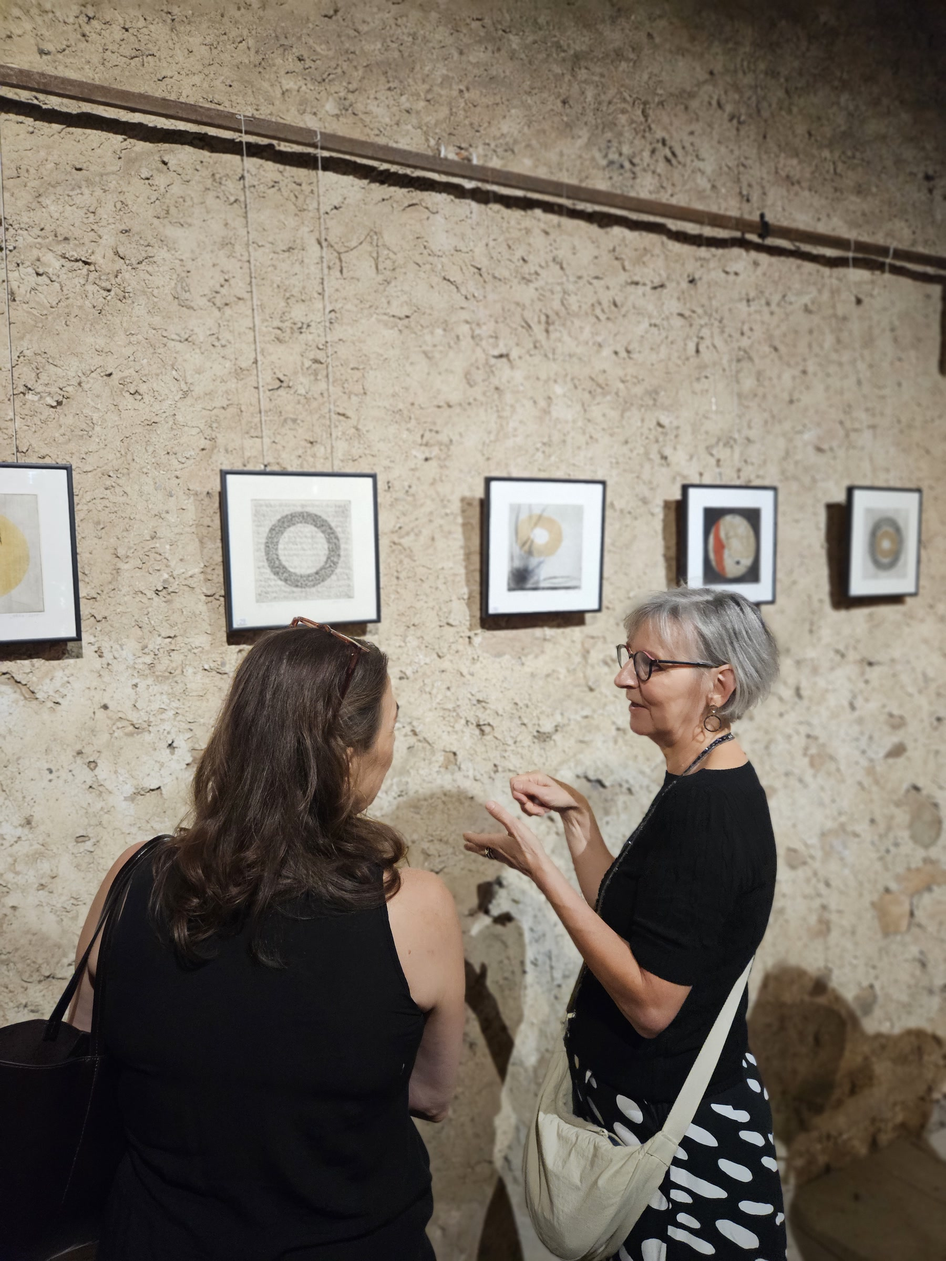
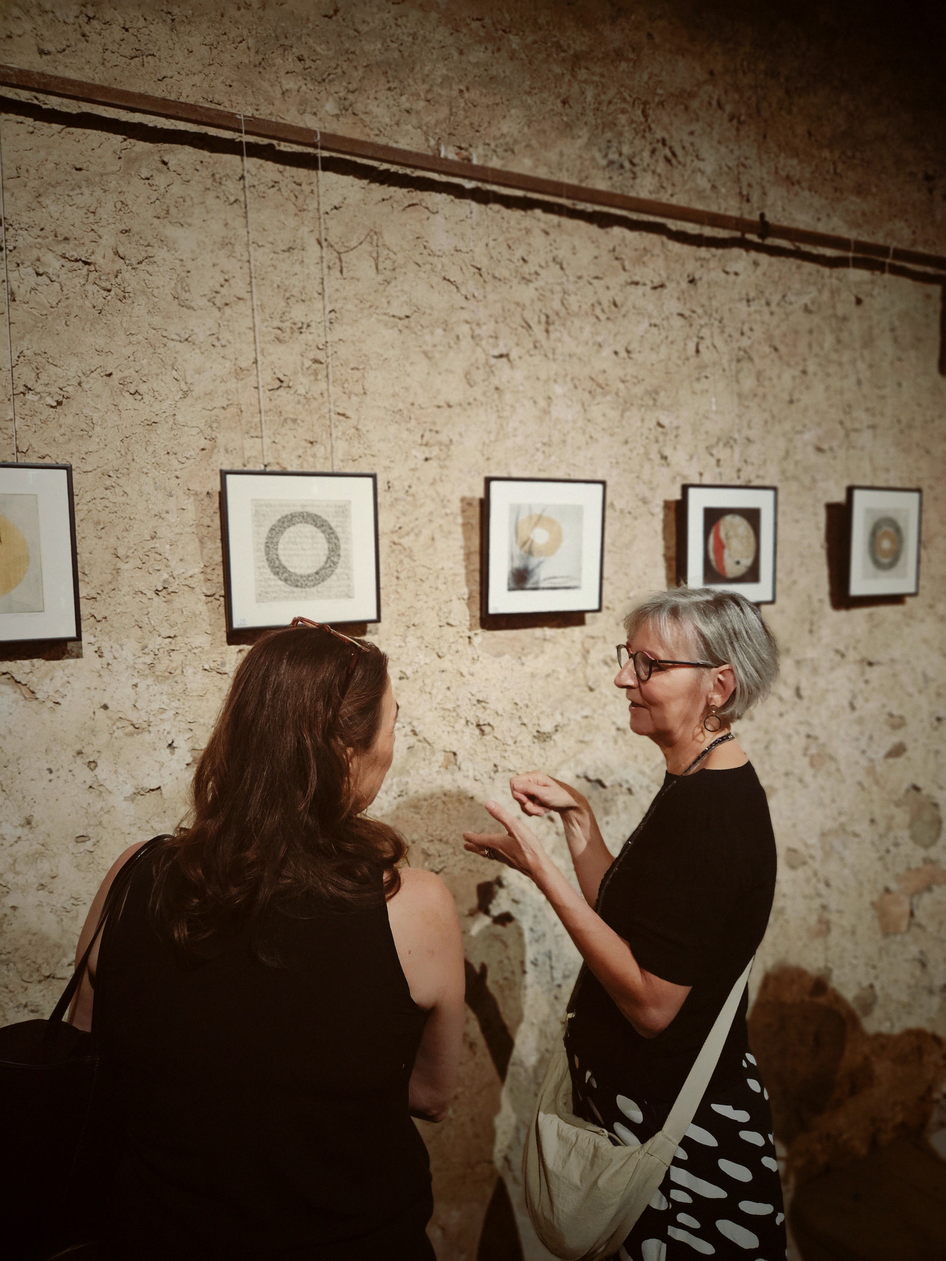
Kuration: die zwei Handybilder im Ton der übrigen Ansichten
Christian, 13. November 2026: «Die letzten beiden bitte filtern,
anpassen an die quali der anderen».

Claude-Session: https://claude.ai/code/session_01EXrTH5RNCHRuQfvA6MEPef

diff --git a/b/angebot/kuration/index.html b/b/angebot/kuration/index.html
@@ -56,7 +56,7 @@
   <h2 id="ablauf-titel">So geht es</h2>
   <ol><li><span>Ein Rundgang durch den Raum, mit dem Thema im Kopf.</span></li><li><span>Konzept, Auswahl und Ablauf als Papier, Budget und Termine dazu.</span></li><li><span>Aufbau, Eröffnung, Begleitprogramm, Abbau.</span></li></ol>
 </div></section>
-<section class="referenzen schau-abschnitt" aria-labelledby="schau-titel"><div class="spalte"><h2 id="schau-titel">Zum Anschauen</h2><div class="schau" style="margin-bottom:32px"><a class="schau-stueck" href="https://www.oberer-turm.ch/" target="_blank" rel="noopener"><span class="bild"><img src="/b/bilder/schau/supervisionen.jpg?v=24b53fc557" alt="Die Website der Ausstellung «Supervisionen» auf dem Handy: gelbes Kopfband, der Titel «Der Obere Turm als Ausstellungsraum» und ein Foto des Turms über den Dächern von Kaiserstuhl" width="1280" height="800" loading="lazy"></span><h3>Supervisionen<small>Website der Ausstellung, 2026</small></h3><p>Die Website zur Ausstellung: Programm, Vernissagen und der Turm als Ausstellungsraum. Auch sie stammt von Christian Strickler.</p><span class="weiter">oberer-turm.ch ↗</span></a></div><p class="klein" style="margin:0 0 18px">Ansichten aus «Supervisionen», Oberer Turm Kaiserstuhl, 2026. Die Werke stammen von den ausstellenden Künstler:innen.</p><div class="fotos"><figure class="foto" id="foto-turm-ansicht"><a href="/b/bilder/fotografie/turm-ansicht-1600.jpg?v=f2ae37b07f" target="_blank" rel="noopener" title="Der Turm gross ansehen"><img src="/b/bilder/fotografie/turm-ansicht-800.jpg?v=dfc1a06c9f" srcset="/b/bilder/fotografie/turm-ansicht-800.jpg?v=dfc1a06c9f 800w, /b/bilder/fotografie/turm-ansicht-1600.jpg?v=f2ae37b07f 1600w" sizes="(max-width: 760px) 100vw, 360px" alt="Durch Blätter gesehen: der Obere Turm von Kaiserstuhl aus Stein mit roter Uhr über den Dächern der Altstadt, dahinter Wald und Felder" width="640" height="800" loading="lazy"></a></figure><figure class="foto" id="foto-turm-leer"><a href="/b/bilder/fotografie/turm-leer-1600.jpg?v=c46e96f137" target="_blank" rel="noopener" title="Der Raum gross ansehen"><img src="/b/bilder/fotografie/turm-leer-800.jpg?v=61c14c8e16" srcset="/b/bilder/fotografie/turm-leer-800.jpg?v=61c14c8e16 800w, /b/bilder/fotografie/turm-leer-1600.jpg?v=c46e96f137 1600w" sizes="(max-width: 760px) 100vw, 360px" alt="Schwarzweiss: ein hoher Turmraum mit rohen Wänden und Balkendecke, in der Mitte ein Holzpfosten, rechts ein einzelner Stuhl, an der Wand lehnt ein Gemälde neben einem kleinen Fenster" width="640" height="800" loading="lazy"></a></figure><figure class="foto" id="foto-turm-mobile"><a href="/b/bilder/fotografie/turm-mobile-1600.jpg?v=81fe30a4ba" target="_blank" rel="noopener" title="Am Bild gross ansehen"><img src="/b/bilder/fotografie/turm-mobile-800.jpg?v=718c42f93c" srcset="/b/bilder/fotografie/turm-mobile-800.jpg?v=718c42f93c 800w, /b/bilder/fotografie/turm-mobile-1600.jpg?v=81fe30a4ba 1600w" sizes="(max-width: 760px) 100vw, 360px" alt="Durch hängende dunkle Formen eines Mobiles gesehen: zwei Menschen von hinten vor einem hellen Gemälde, einer zeigt auf eine Stelle; daneben ein Bild in Türkis und Grau" width="800" height="533" loading="lazy"></a></figure><figure class="foto" id="foto-turm-ecke"><a href="/b/bilder/fotografie/turm-ecke-1600.jpg?v=f0c8b6f588" target="_blank" rel="noopener" title="In der Ecke gross ansehen"><img src="/b/bilder/fotografie/turm-ecke-800.jpg?v=1d4db407ae" srcset="/b/bilder/fotografie/turm-ecke-800.jpg?v=1d4db407ae 800w, /b/bilder/fotografie/turm-ecke-1600.jpg?v=f0c8b6f588 1600w" sizes="(max-width: 760px) 100vw, 360px" alt="Eine Ecke des Turmraums: links ein grosses Bild mit gelbem und blauem Licht, rechts eine weisse Linienzeichnung auf schwarzem Grund" width="640" height="800" loading="lazy"></a></figure><figure class="foto" id="foto-turm-blaetter"><a href="/b/bilder/fotografie/turm-blaetter-1600.jpg?v=fdf43b088a" target="_blank" rel="noopener" title="Vor den Blättern gross ansehen"><img src="/b/bilder/fotografie/turm-blaetter-800.jpg?v=ce6f472d72" srcset="/b/bilder/fotografie/turm-blaetter-800.jpg?v=ce6f472d72 800w, /b/bilder/fotografie/turm-blaetter-1600.jpg?v=fdf43b088a 1600w" sizes="(max-width: 760px) 100vw, 360px" alt="Drei Menschen von hinten vor gerahmten Blättern mit dunklen runden Formen, eine Frau zeigt auf ein Blatt; im Vordergrund die Scheiben eines Mobiles" width="800" height="533" loading="lazy"></a></figure><figure class="foto" id="foto-turm-farben"><a href="/b/bilder/fotografie/turm-farben-1600.jpg?v=e47a8b1b45" target="_blank" rel="noopener" title="Farbflächen gross ansehen"><img src="/b/bilder/fotografie/turm-farben-800.jpg?v=c3805d035c" srcset="/b/bilder/fotografie/turm-farben-800.jpg?v=c3805d035c 800w, /b/bilder/fotografie/turm-farben-1600.jpg?v=e47a8b1b45 1600w" sizes="(max-width: 760px) 100vw, 360px" alt="Ein Gemälde aus geschwungenen Farbflächen in Blau, Rot, Gelb und Orange an der rohen Wand, davor ein Tisch mit drei Blättern in Passepartouts" width="640" height="800" loading="lazy"></a></figure><figure class="foto" id="foto-turm-am-bild"><a href="/b/bilder/fotografie/turm-am-bild-1600.jpg?v=f627bb52af" target="_blank" rel="noopener" title="Im Gespräch gross ansehen"><img src="/b/bilder/fotografie/turm-am-bild-800.jpg?v=ca9fb57a62" srcset="/b/bilder/fotografie/turm-am-bild-800.jpg?v=ca9fb57a62 800w, /b/bilder/fotografie/turm-am-bild-1600.jpg?v=f627bb52af 1600w" sizes="(max-width: 760px) 100vw, 360px" alt="Zwei Frauen stehen nah vor einem Gemälde in hellen Blau- und Sandtönen, eine streckt die Hand zur Leinwand aus" width="800" height="533" loading="lazy"></a></figure><figure class="foto" id="foto-turm-stillleben"><a href="/b/bilder/fotografie/turm-stillleben-1600.jpg?v=a9cd11e326" target="_blank" rel="noopener" title="Vor den Stillleben gross ansehen"><img src="/b/bilder/fotografie/turm-stillleben-800.jpg?v=ee868e18b7" srcset="/b/bilder/fotografie/turm-stillleben-800.jpg?v=ee868e18b7 800w, /b/bilder/fotografie/turm-stillleben-1600.jpg?v=a9cd11e326 1600w" sizes="(max-width: 760px) 100vw, 360px" alt="Eine Frau im gemusterten Kleid steht mit dem Rücken zur Kamera vor vier gerahmten Blättern mit Stillleben aus Krügen, Flaschen und Schalen" width="600" height="800" loading="lazy"></a></figure><figure class="foto" id="foto-turm-kreise"><a href="/b/bilder/fotografie/turm-kreise-1600.jpg?v=b50a983417" target="_blank" rel="noopener" title="Vor den Kreisen gross ansehen"><img src="/b/bilder/fotografie/turm-kreise-800.jpg?v=d2d74a0a4c" srcset="/b/bilder/fotografie/turm-kreise-800.jpg?v=d2d74a0a4c 800w, /b/bilder/fotografie/turm-kreise-1600.jpg?v=b50a983417 1600w" sizes="(max-width: 760px) 100vw, 360px" alt="Zwei Frauen im Gespräch vor einer Reihe kleiner gerahmter Blätter mit Kreisen und Scheiben, eine erklärt mit den Händen" width="600" height="800" loading="lazy"></a></figure></div></div></section>
+<section class="referenzen schau-abschnitt" aria-labelledby="schau-titel"><div class="spalte"><h2 id="schau-titel">Zum Anschauen</h2><div class="schau" style="margin-bottom:32px"><a class="schau-stueck" href="https://www.oberer-turm.ch/" target="_blank" rel="noopener"><span class="bild"><img src="/b/bilder/schau/supervisionen.jpg?v=24b53fc557" alt="Die Website der Ausstellung «Supervisionen» auf dem Handy: gelbes Kopfband, der Titel «Der Obere Turm als Ausstellungsraum» und ein Foto des Turms über den Dächern von Kaiserstuhl" width="1280" height="800" loading="lazy"></span><h3>Supervisionen<small>Website der Ausstellung, 2026</small></h3><p>Die Website zur Ausstellung: Programm, Vernissagen und der Turm als Ausstellungsraum. Auch sie stammt von Christian Strickler.</p><span class="weiter">oberer-turm.ch ↗</span></a></div><p class="klein" style="margin:0 0 18px">Ansichten aus «Supervisionen», Oberer Turm Kaiserstuhl, 2026. Die Werke stammen von den ausstellenden Künstler:innen.</p><div class="fotos"><figure class="foto" id="foto-turm-ansicht"><a href="/b/bilder/fotografie/turm-ansicht-1600.jpg?v=f2ae37b07f" target="_blank" rel="noopener" title="Der Turm gross ansehen"><img src="/b/bilder/fotografie/turm-ansicht-800.jpg?v=dfc1a06c9f" srcset="/b/bilder/fotografie/turm-ansicht-800.jpg?v=dfc1a06c9f 800w, /b/bilder/fotografie/turm-ansicht-1600.jpg?v=f2ae37b07f 1600w" sizes="(max-width: 760px) 100vw, 360px" alt="Durch Blätter gesehen: der Obere Turm von Kaiserstuhl aus Stein mit roter Uhr über den Dächern der Altstadt, dahinter Wald und Felder" width="640" height="800" loading="lazy"></a></figure><figure class="foto" id="foto-turm-leer"><a href="/b/bilder/fotografie/turm-leer-1600.jpg?v=c46e96f137" target="_blank" rel="noopener" title="Der Raum gross ansehen"><img src="/b/bilder/fotografie/turm-leer-800.jpg?v=61c14c8e16" srcset="/b/bilder/fotografie/turm-leer-800.jpg?v=61c14c8e16 800w, /b/bilder/fotografie/turm-leer-1600.jpg?v=c46e96f137 1600w" sizes="(max-width: 760px) 100vw, 360px" alt="Schwarzweiss: ein hoher Turmraum mit rohen Wänden und Balkendecke, in der Mitte ein Holzpfosten, rechts ein einzelner Stuhl, an der Wand lehnt ein Gemälde neben einem kleinen Fenster" width="640" height="800" loading="lazy"></a></figure><figure class="foto" id="foto-turm-mobile"><a href="/b/bilder/fotografie/turm-mobile-1600.jpg?v=81fe30a4ba" target="_blank" rel="noopener" title="Am Bild gross ansehen"><img src="/b/bilder/fotografie/turm-mobile-800.jpg?v=718c42f93c" srcset="/b/bilder/fotografie/turm-mobile-800.jpg?v=718c42f93c 800w, /b/bilder/fotografie/turm-mobile-1600.jpg?v=81fe30a4ba 1600w" sizes="(max-width: 760px) 100vw, 360px" alt="Durch hängende dunkle Formen eines Mobiles gesehen: zwei Menschen von hinten vor einem hellen Gemälde, einer zeigt auf eine Stelle; daneben ein Bild in Türkis und Grau" width="800" height="533" loading="lazy"></a></figure><figure class="foto" id="foto-turm-ecke"><a href="/b/bilder/fotografie/turm-ecke-1600.jpg?v=f0c8b6f588" target="_blank" rel="noopener" title="In der Ecke gross ansehen"><img src="/b/bilder/fotografie/turm-ecke-800.jpg?v=1d4db407ae" srcset="/b/bilder/fotografie/turm-ecke-800.jpg?v=1d4db407ae 800w, /b/bilder/fotografie/turm-ecke-1600.jpg?v=f0c8b6f588 1600w" sizes="(max-width: 760px) 100vw, 360px" alt="Eine Ecke des Turmraums: links ein grosses Bild mit gelbem und blauem Licht, rechts eine weisse Linienzeichnung auf schwarzem Grund" width="640" height="800" loading="lazy"></a></figure><figure class="foto" id="foto-turm-blaetter"><a href="/b/bilder/fotografie/turm-blaetter-1600.jpg?v=fdf43b088a" target="_blank" rel="noopener" title="Vor den Blättern gross ansehen"><img src="/b/bilder/fotografie/turm-blaetter-800.jpg?v=ce6f472d72" srcset="/b/bilder/fotografie/turm-blaetter-800.jpg?v=ce6f472d72 800w, /b/bilder/fotografie/turm-blaetter-1600.jpg?v=fdf43b088a 1600w" sizes="(max-width: 760px) 100vw, 360px" alt="Drei Menschen von hinten vor gerahmten Blättern mit dunklen runden Formen, eine Frau zeigt auf ein Blatt; im Vordergrund die Scheiben eines Mobiles" width="800" height="533" loading="lazy"></a></figure><figure class="foto" id="foto-turm-farben"><a href="/b/bilder/fotografie/turm-farben-1600.jpg?v=e47a8b1b45" target="_blank" rel="noopener" title="Farbflächen gross ansehen"><img src="/b/bilder/fotografie/turm-farben-800.jpg?v=c3805d035c" srcset="/b/bilder/fotografie/turm-farben-800.jpg?v=c3805d035c 800w, /b/bilder/fotografie/turm-farben-1600.jpg?v=e47a8b1b45 1600w" sizes="(max-width: 760px) 100vw, 360px" alt="Ein Gemälde aus geschwungenen Farbflächen in Blau, Rot, Gelb und Orange an der rohen Wand, davor ein Tisch mit drei Blättern in Passepartouts" width="640" height="800" loading="lazy"></a></figure><figure class="foto" id="foto-turm-am-bild"><a href="/b/bilder/fotografie/turm-am-bild-1600.jpg?v=f627bb52af" target="_blank" rel="noopener" title="Im Gespräch gross ansehen"><img src="/b/bilder/fotografie/turm-am-bild-800.jpg?v=ca9fb57a62" srcset="/b/bilder/fotografie/turm-am-bild-800.jpg?v=ca9fb57a62 800w, /b/bilder/fotografie/turm-am-bild-1600.jpg?v=f627bb52af 1600w" sizes="(max-width: 760px) 100vw, 360px" alt="Zwei Frauen stehen nah vor einem Gemälde in hellen Blau- und Sandtönen, eine streckt die Hand zur Leinwand aus" width="800" height="533" loading="lazy"></a></figure><figure class="foto" id="foto-turm-stillleben"><a href="/b/bilder/fotografie/turm-stillleben-1600.jpg?v=8e333441c0" target="_blank" rel="noopener" title="Vor den Stillleben gross ansehen"><img src="/b/bilder/fotografie/turm-stillleben-800.jpg?v=97c9c25995" srcset="/b/bilder/fotografie/turm-stillleben-800.jpg?v=97c9c25995 800w, /b/bilder/fotografie/turm-stillleben-1600.jpg?v=8e333441c0 1600w" sizes="(max-width: 760px) 100vw, 360px" alt="Eine Frau im gemusterten Kleid steht mit dem Rücken zur Kamera vor vier gerahmten Blättern mit Stillleben aus Krügen, Flaschen und Schalen" width="600" height="800" loading="lazy"></a></figure><figure class="foto" id="foto-turm-kreise"><a href="/b/bilder/fotografie/turm-kreise-1600.jpg?v=52816ae89e" target="_blank" rel="noopener" title="Vor den Kreisen gross ansehen"><img src="/b/bilder/fotografie/turm-kreise-800.jpg?v=0bf5ea6895" srcset="/b/bilder/fotografie/turm-kreise-800.jpg?v=0bf5ea6895 800w, /b/bilder/fotografie/turm-kreise-1600.jpg?v=52816ae89e 1600w" sizes="(max-width: 760px) 100vw, 360px" alt="Zwei Frauen im Gespräch vor einer Reihe kleiner gerahmter Blätter mit Kreisen und Scheiben, eine erklärt mit den Händen" width="600" height="800" loading="lazy"></a></figure></div></div></section>
 
 <section class="referenzen" aria-labelledby="ref-titel"><div class="spalte"><h2 id="ref-titel">Referenzen</h2><ol class="jahre"><li><span class="jahr">2026</span><span>«Supervisionen», Oberer Turm, Kaiserstuhl: sechs Monate, neun Künstler:innen; für Pro Kaiserstuhl, Gemeinde Zurzach. Ausstellung und Website. <a class="ref-link" href="https://www.oberer-turm.ch/" target="_blank" rel="noopener">oberer-turm.ch ↗</a></span></li><li><span class="jahr">2024</span><span>Ausstellung mit Werken von Klient:innen, Behmen, Aarau: ein Jahr; für das BKS Aargau und die Stiftung FARO</span></li></ol></div></section>
 <section class="briefing" id="briefing" aria-labelledby="briefing-titel"><div class="spalte">

diff --git a/b/en/angebot/kuration/index.html b/b/en/angebot/kuration/index.html
@@ -56,7 +56,7 @@
   <h2 id="ablauf-titel">How it works</h2>
   <ol><li><span>A walk through the space, with the theme in mind.</span></li><li><span>Concept, selection and programme on paper, budget and dates included.</span></li><li><span>Installation, opening, accompanying programme, dismantling.</span></li></ol>
 </div></section>
-<section class="referenzen schau-abschnitt" aria-labelledby="schau-titel"><div class="spalte"><h2 id="schau-titel">Have a look</h2><div class="schau" style="margin-bottom:32px"><a class="schau-stueck" href="https://www.oberer-turm.ch/" target="_blank" rel="noopener"><span class="bild"><img src="/b/bilder/schau/supervisionen.jpg?v=24b53fc557" alt="The website of the exhibition «Supervisionen» on a phone: yellow header, the title «Der Obere Turm als Ausstellungsraum» and a photo of the tower above the roofs of Kaiserstuhl" width="1280" height="800" loading="lazy"></span><h3>Supervisionen<small>Exhibition website, 2026</small></h3><p>The website for the exhibition: programme, openings and the tower as an exhibition space. It too was made by Christian Strickler.</p><span class="weiter">oberer-turm.ch ↗</span></a></div><p class="klein" style="margin:0 0 18px">Views of «Supervisionen», Oberer Turm Kaiserstuhl, 2026. The works are by the exhibiting artists.</p><div class="fotos"><figure class="foto" id="foto-turm-ansicht"><a href="/b/bilder/fotografie/turm-ansicht-1600.jpg?v=f2ae37b07f" target="_blank" rel="noopener" title="View The tower large"><img src="/b/bilder/fotografie/turm-ansicht-800.jpg?v=dfc1a06c9f" srcset="/b/bilder/fotografie/turm-ansicht-800.jpg?v=dfc1a06c9f 800w, /b/bilder/fotografie/turm-ansicht-1600.jpg?v=f2ae37b07f 1600w" sizes="(max-width: 760px) 100vw, 360px" alt="Seen through leaves: the stone Oberer Turm of Kaiserstuhl with its red clock above the roofs of the old town, forest and fields behind" width="640" height="800" loading="lazy"></a></figure><figure class="foto" id="foto-turm-leer"><a href="/b/bilder/fotografie/turm-leer-1600.jpg?v=c46e96f137" target="_blank" rel="noopener" title="View The room large"><img src="/b/bilder/fotografie/turm-leer-800.jpg?v=61c14c8e16" srcset="/b/bilder/fotografie/turm-leer-800.jpg?v=61c14c8e16 800w, /b/bilder/fotografie/turm-leer-1600.jpg?v=c46e96f137 1600w" sizes="(max-width: 760px) 100vw, 360px" alt="Black and white: a tall tower room with rough walls and a beamed ceiling, a wooden post in the centre, a single chair on the right, a painting leaning against the wall beside a small window" width="640" height="800" loading="lazy"></a></figure><figure class="foto" id="foto-turm-mobile"><a href="/b/bilder/fotografie/turm-mobile-1600.jpg?v=81fe30a4ba" target="_blank" rel="noopener" title="View At the picture large"><img src="/b/bilder/fotografie/turm-mobile-800.jpg?v=718c42f93c" srcset="/b/bilder/fotografie/turm-mobile-800.jpg?v=718c42f93c 800w, /b/bilder/fotografie/turm-mobile-1600.jpg?v=81fe30a4ba 1600w" sizes="(max-width: 760px) 100vw, 360px" alt="Seen through the hanging dark shapes of a mobile: two people from behind in front of a pale painting, one pointing at a spot; beside it a picture in turquoise and grey" width="800" height="533" loading="lazy"></a></figure><figure class="foto" id="foto-turm-ecke"><a href="/b/bilder/fotografie/turm-ecke-1600.jpg?v=f0c8b6f588" target="_blank" rel="noopener" title="View In the corner large"><img src="/b/bilder/fotografie/turm-ecke-800.jpg?v=1d4db407ae" srcset="/b/bilder/fotografie/turm-ecke-800.jpg?v=1d4db407ae 800w, /b/bilder/fotografie/turm-ecke-1600.jpg?v=f0c8b6f588 1600w" sizes="(max-width: 760px) 100vw, 360px" alt="A corner of the tower room: a large picture with yellow and blue light on the left, a white line drawing on a black ground on the right" width="640" height="800" loading="lazy"></a></figure><figure class="foto" id="foto-turm-blaetter"><a href="/b/bilder/fotografie/turm-blaetter-1600.jpg?v=fdf43b088a" target="_blank" rel="noopener" title="View Before the sheets large"><img src="/b/bilder/fotografie/turm-blaetter-800.jpg?v=ce6f472d72" srcset="/b/bilder/fotografie/turm-blaetter-800.jpg?v=ce6f472d72 800w, /b/bilder/fotografie/turm-blaetter-1600.jpg?v=fdf43b088a 1600w" sizes="(max-width: 760px) 100vw, 360px" alt="Three people from behind in front of framed sheets with dark round shapes, a woman pointing at one; the discs of a mobile in the foreground" width="800" height="533" loading="lazy"></a></figure><figure class="foto" id="foto-turm-farben"><a href="/b/bilder/fotografie/turm-farben-1600.jpg?v=e47a8b1b45" target="_blank" rel="noopener" title="View Fields of colour large"><img src="/b/bilder/fotografie/turm-farben-800.jpg?v=c3805d035c" srcset="/b/bilder/fotografie/turm-farben-800.jpg?v=c3805d035c 800w, /b/bilder/fotografie/turm-farben-1600.jpg?v=e47a8b1b45 1600w" sizes="(max-width: 760px) 100vw, 360px" alt="A painting of curved fields of colour in blue, red, yellow and orange on the rough wall, a table with three matted sheets in front" width="640" height="800" loading="lazy"></a></figure><figure class="foto" id="foto-turm-am-bild"><a href="/b/bilder/fotografie/turm-am-bild-1600.jpg?v=f627bb52af" target="_blank" rel="noopener" title="View In conversation large"><img src="/b/bilder/fotografie/turm-am-bild-800.jpg?v=ca9fb57a62" srcset="/b/bilder/fotografie/turm-am-bild-800.jpg?v=ca9fb57a62 800w, /b/bilder/fotografie/turm-am-bild-1600.jpg?v=f627bb52af 1600w" sizes="(max-width: 760px) 100vw, 360px" alt="Two women stand close to a painting in pale blue and sand tones, one reaching her hand towards the canvas" width="800" height="533" loading="lazy"></a></figure><figure class="foto" id="foto-turm-stillleben"><a href="/b/bilder/fotografie/turm-stillleben-1600.jpg?v=a9cd11e326" target="_blank" rel="noopener" title="View Before the still lifes large"><img src="/b/bilder/fotografie/turm-stillleben-800.jpg?v=ee868e18b7" srcset="/b/bilder/fotografie/turm-stillleben-800.jpg?v=ee868e18b7 800w, /b/bilder/fotografie/turm-stillleben-1600.jpg?v=a9cd11e326 1600w" sizes="(max-width: 760px) 100vw, 360px" alt="A woman in a patterned dress stands with her back to the camera in front of four framed sheets with still lifes of jugs, bottles and bowls" width="600" height="800" loading="lazy"></a></figure><figure class="foto" id="foto-turm-kreise"><a href="/b/bilder/fotografie/turm-kreise-1600.jpg?v=b50a983417" target="_blank" rel="noopener" title="View Before the circles large"><img src="/b/bilder/fotografie/turm-kreise-800.jpg?v=d2d74a0a4c" srcset="/b/bilder/fotografie/turm-kreise-800.jpg?v=d2d74a0a4c 800w, /b/bilder/fotografie/turm-kreise-1600.jpg?v=b50a983417 1600w" sizes="(max-width: 760px) 100vw, 360px" alt="Two women in conversation in front of a row of small framed sheets with circles and discs, one explaining with her hands" width="600" height="800" loading="lazy"></a></figure></div></div></section>
+<section class="referenzen schau-abschnitt" aria-labelledby="schau-titel"><div class="spalte"><h2 id="schau-titel">Have a look</h2><div class="schau" style="margin-bottom:32px"><a class="schau-stueck" href="https://www.oberer-turm.ch/" target="_blank" rel="noopener"><span class="bild"><img src="/b/bilder/schau/supervisionen.jpg?v=24b53fc557" alt="The website of the exhibition «Supervisionen» on a phone: yellow header, the title «Der Obere Turm als Ausstellungsraum» and a photo of the tower above the roofs of Kaiserstuhl" width="1280" height="800" loading="lazy"></span><h3>Supervisionen<small>Exhibition website, 2026</small></h3><p>The website for the exhibition: programme, openings and the tower as an exhibition space. It too was made by Christian Strickler.</p><span class="weiter">oberer-turm.ch ↗</span></a></div><p class="klein" style="margin:0 0 18px">Views of «Supervisionen», Oberer Turm Kaiserstuhl, 2026. The works are by the exhibiting artists.</p><div class="fotos"><figure class="foto" id="foto-turm-ansicht"><a href="/b/bilder/fotografie/turm-ansicht-1600.jpg?v=f2ae37b07f" target="_blank" rel="noopener" title="View The tower large"><img src="/b/bilder/fotografie/turm-ansicht-800.jpg?v=dfc1a06c9f" srcset="/b/bilder/fotografie/turm-ansicht-800.jpg?v=dfc1a06c9f 800w, /b/bilder/fotografie/turm-ansicht-1600.jpg?v=f2ae37b07f 1600w" sizes="(max-width: 760px) 100vw, 360px" alt="Seen through leaves: the stone Oberer Turm of Kaiserstuhl with its red clock above the roofs of the old town, forest and fields behind" width="640" height="800" loading="lazy"></a></figure><figure class="foto" id="foto-turm-leer"><a href="/b/bilder/fotografie/turm-leer-1600.jpg?v=c46e96f137" target="_blank" rel="noopener" title="View The room large"><img src="/b/bilder/fotografie/turm-leer-800.jpg?v=61c14c8e16" srcset="/b/bilder/fotografie/turm-leer-800.jpg?v=61c14c8e16 800w, /b/bilder/fotografie/turm-leer-1600.jpg?v=c46e96f137 1600w" sizes="(max-width: 760px) 100vw, 360px" alt="Black and white: a tall tower room with rough walls and a beamed ceiling, a wooden post in the centre, a single chair on the right, a painting leaning against the wall beside a small window" width="640" height="800" loading="lazy"></a></figure><figure class="foto" id="foto-turm-mobile"><a href="/b/bilder/fotografie/turm-mobile-1600.jpg?v=81fe30a4ba" target="_blank" rel="noopener" title="View At the picture large"><img src="/b/bilder/fotografie/turm-mobile-800.jpg?v=718c42f93c" srcset="/b/bilder/fotografie/turm-mobile-800.jpg?v=718c42f93c 800w, /b/bilder/fotografie/turm-mobile-1600.jpg?v=81fe30a4ba 1600w" sizes="(max-width: 760px) 100vw, 360px" alt="Seen through the hanging dark shapes of a mobile: two people from behind in front of a pale painting, one pointing at a spot; beside it a picture in turquoise and grey" width="800" height="533" loading="lazy"></a></figure><figure class="foto" id="foto-turm-ecke"><a href="/b/bilder/fotografie/turm-ecke-1600.jpg?v=f0c8b6f588" target="_blank" rel="noopener" title="View In the corner large"><img src="/b/bilder/fotografie/turm-ecke-800.jpg?v=1d4db407ae" srcset="/b/bilder/fotografie/turm-ecke-800.jpg?v=1d4db407ae 800w, /b/bilder/fotografie/turm-ecke-1600.jpg?v=f0c8b6f588 1600w" sizes="(max-width: 760px) 100vw, 360px" alt="A corner of the tower room: a large picture with yellow and blue light on the left, a white line drawing on a black ground on the right" width="640" height="800" loading="lazy"></a></figure><figure class="foto" id="foto-turm-blaetter"><a href="/b/bilder/fotografie/turm-blaetter-1600.jpg?v=fdf43b088a" target="_blank" rel="noopener" title="View Before the sheets large"><img src="/b/bilder/fotografie/turm-blaetter-800.jpg?v=ce6f472d72" srcset="/b/bilder/fotografie/turm-blaetter-800.jpg?v=ce6f472d72 800w, /b/bilder/fotografie/turm-blaetter-1600.jpg?v=fdf43b088a 1600w" sizes="(max-width: 760px) 100vw, 360px" alt="Three people from behind in front of framed sheets with dark round shapes, a woman pointing at one; the discs of a mobile in the foreground" width="800" height="533" loading="lazy"></a></figure><figure class="foto" id="foto-turm-farben"><a href="/b/bilder/fotografie/turm-farben-1600.jpg?v=e47a8b1b45" target="_blank" rel="noopener" title="View Fields of colour large"><img src="/b/bilder/fotografie/turm-farben-800.jpg?v=c3805d035c" srcset="/b/bilder/fotografie/turm-farben-800.jpg?v=c3805d035c 800w, /b/bilder/fotografie/turm-farben-1600.jpg?v=e47a8b1b45 1600w" sizes="(max-width: 760px) 100vw, 360px" alt="A painting of curved fields of colour in blue, red, yellow and orange on the rough wall, a table with three matted sheets in front" width="640" height="800" loading="lazy"></a></figure><figure class="foto" id="foto-turm-am-bild"><a href="/b/bilder/fotografie/turm-am-bild-1600.jpg?v=f627bb52af" target="_blank" rel="noopener" title="View In conversation large"><img src="/b/bilder/fotografie/turm-am-bild-800.jpg?v=ca9fb57a62" srcset="/b/bilder/fotografie/turm-am-bild-800.jpg?v=ca9fb57a62 800w, /b/bilder/fotografie/turm-am-bild-1600.jpg?v=f627bb52af 1600w" sizes="(max-width: 760px) 100vw, 360px" alt="Two women stand close to a painting in pale blue and sand tones, one reaching her hand towards the canvas" width="800" height="533" loading="lazy"></a></figure><figure class="foto" id="foto-turm-stillleben"><a href="/b/bilder/fotografie/turm-stillleben-1600.jpg?v=8e333441c0" target="_blank" rel="noopener" title="View Before the still lifes large"><img src="/b/bilder/fotografie/turm-stillleben-800.jpg?v=97c9c25995" srcset="/b/bilder/fotografie/turm-stillleben-800.jpg?v=97c9c25995 800w, /b/bilder/fotografie/turm-stillleben-1600.jpg?v=8e333441c0 1600w" sizes="(max-width: 760px) 100vw, 360px" alt="A woman in a patterned dress stands with her back to the camera in front of four framed sheets with still lifes of jugs, bottles and bowls" width="600" height="800" loading="lazy"></a></figure><figure class="foto" id="foto-turm-kreise"><a href="/b/bilder/fotografie/turm-kreise-1600.jpg?v=52816ae89e" target="_blank" rel="noopener" title="View Before the circles large"><img src="/b/bilder/fotografie/turm-kreise-800.jpg?v=0bf5ea6895" srcset="/b/bilder/fotografie/turm-kreise-800.jpg?v=0bf5ea6895 800w, /b/bilder/fotografie/turm-kreise-1600.jpg?v=52816ae89e 1600w" sizes="(max-width: 760px) 100vw, 360px" alt="Two women in conversation in front of a row of small framed sheets with circles and discs, one explaining with her hands" width="600" height="800" loading="lazy"></a></figure></div></div></section>
 
 <section class="referenzen" aria-labelledby="ref-titel"><div class="spalte"><h2 id="ref-titel">References</h2><ol class="jahre"><li><span class="jahr">2026</span><span>«Supervisionen», Oberer Turm, Kaiserstuhl: six months, nine artists; for Pro Kaiserstuhl, municipality of Zurzach. Exhibition and website. <a class="ref-link" href="https://www.oberer-turm.ch/" target="_blank" rel="noopener">oberer-turm.ch ↗</a></span></li><li><span class="jahr">2024</span><span>Exhibition of clients' works, Behmen, Aarau: one year; for the BKS Aargau and the FARO Foundation</span></li></ol></div></section>
 <section class="briefing" id="briefing" aria-labelledby="briefing-titel"><div class="spalte">
